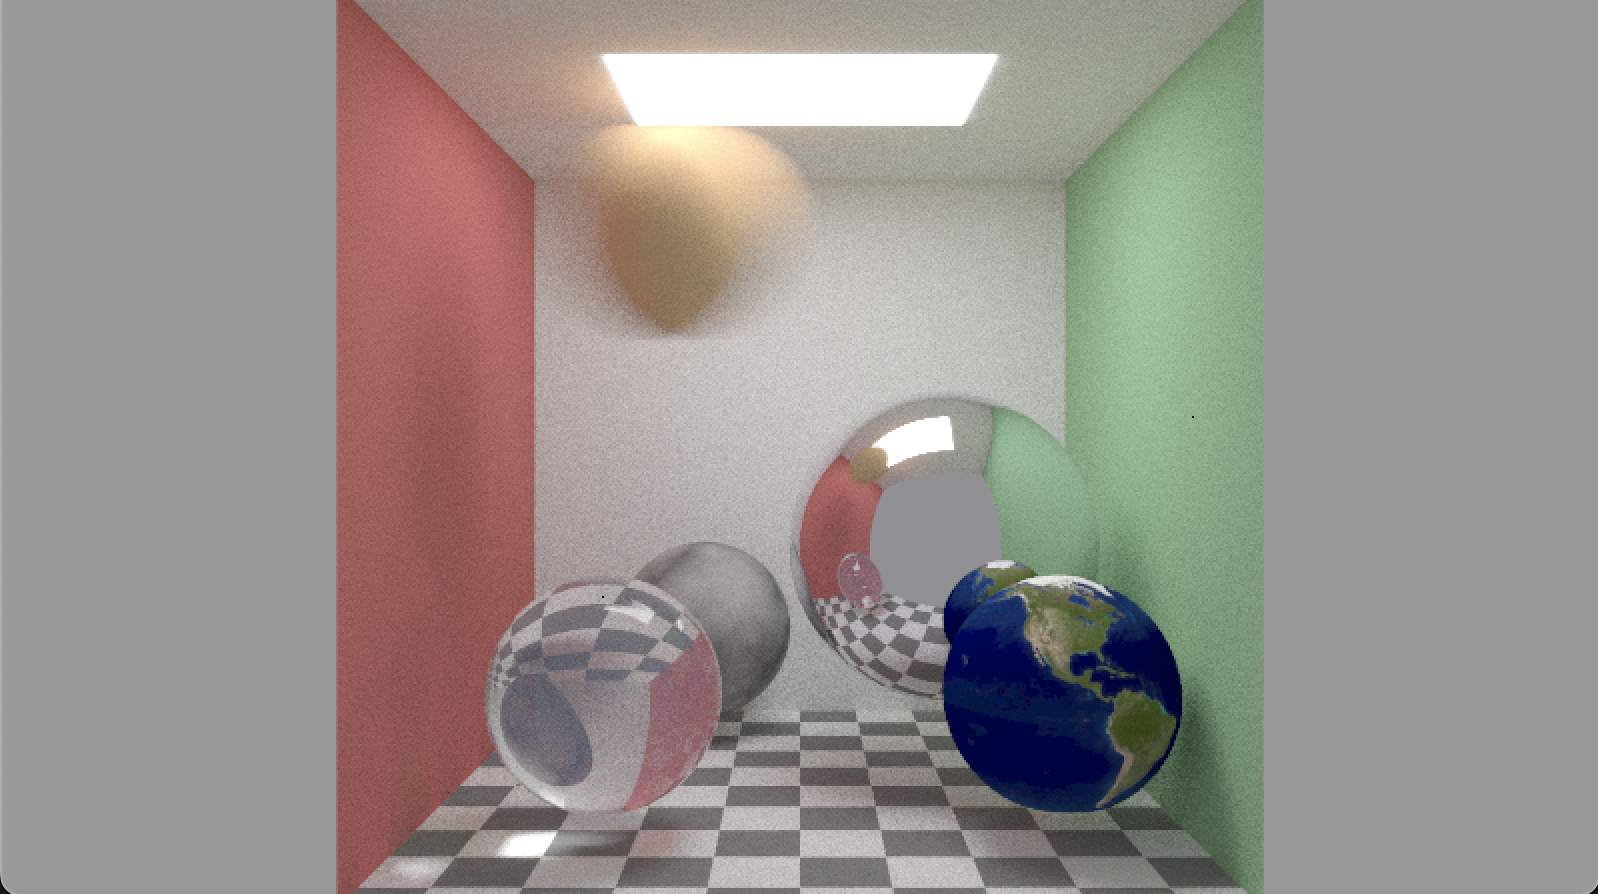
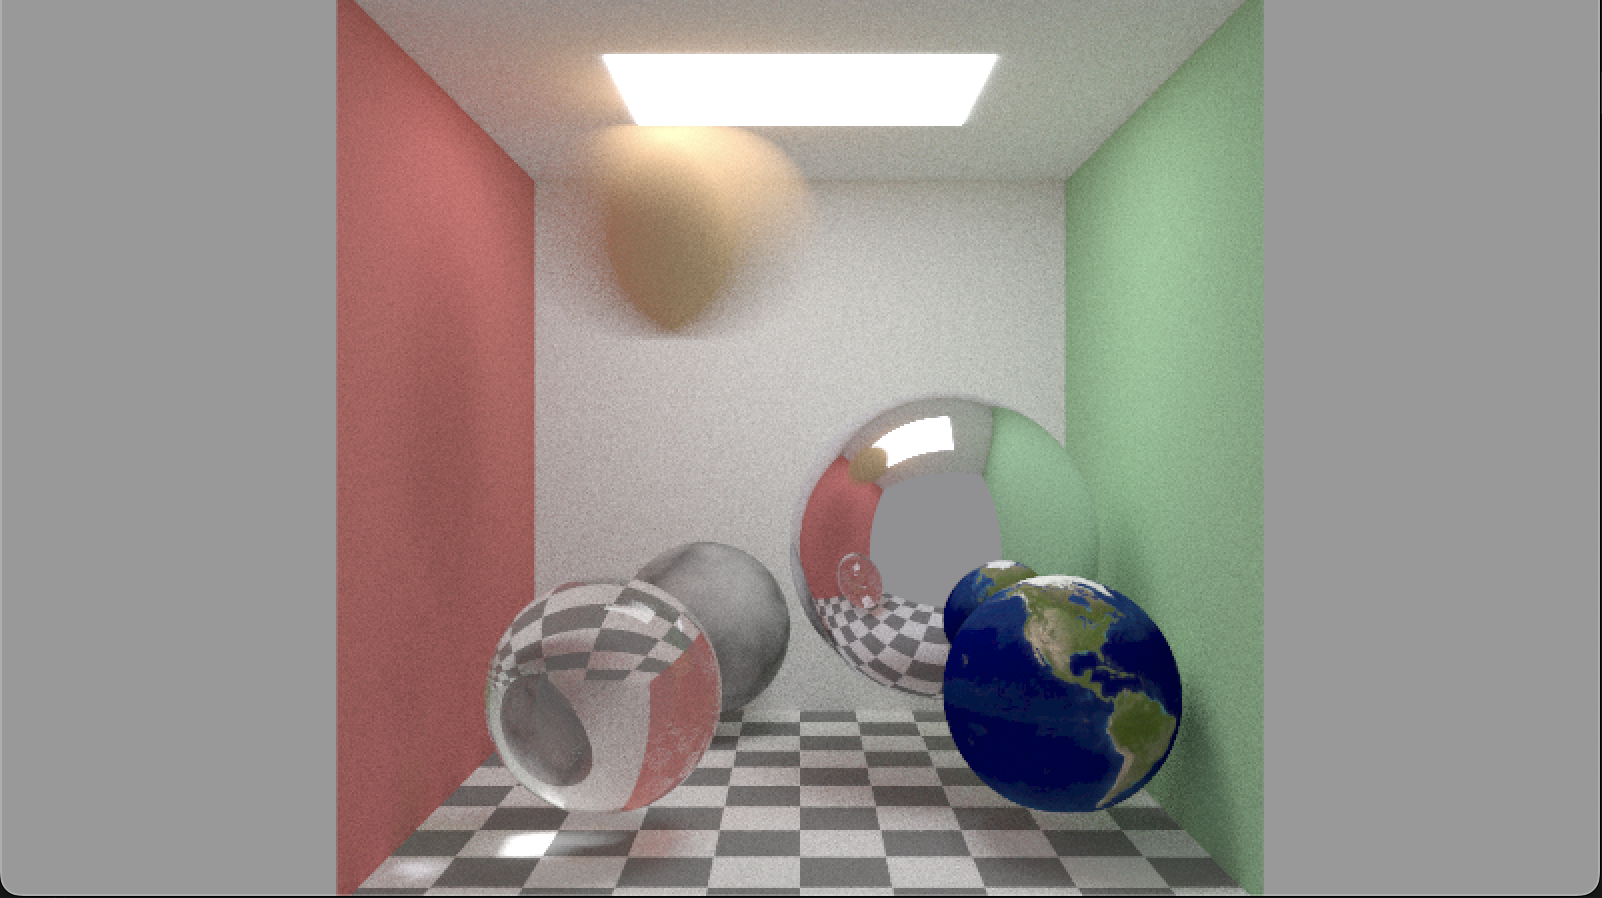
refactor(scene): update sphere types, materials, and positions for consistency and clarity

diff --git a/src/rendering/scene.cpp b/src/rendering/scene.cpp
@@ -86,23 +86,8 @@ SceneData Scene::buildScene() {
 		glm::vec3(0.0f),
 		0.7f,
 		Material{
-			.texture = {
-				.color = glm::vec3(0.8f, 0.8f, 0.9f),
-				.type = TextureType::SolidColor
-			},
+			.texture = {.color = glm::vec3(0.8f, 0.8f, 0.9f), .type = TextureType::SolidColor},
 			.type = MaterialType::Metal,
-		}));
-
-	// Image-textured sphere
-	spheres.emplace_back(std::make_shared<Sphere>(
-		glm::vec3(1.0f, -0.95f, -2.75f),
-		glm::vec3(0.0f),
-		0.45f,
-		Material{
-			.texture = {
-				.type = TextureType::Image
-			},
-			.type = MaterialType::Lambertian,
 		}));
 
 	// Noise sphere
@@ -111,36 +96,41 @@ SceneData Scene::buildScene() {
 		glm::vec3(0.0f),
 		0.45f,
 		Material{
-			.texture = {
-				.noise = glm::vec4(7.0f, 0.5f, 2.0f, 0.0f),
-				.type = TextureType::Noise
-			},
+			.texture = {.noise = glm::vec4(7.0f, 0.5f, 2.0f, 0.0f), .type = TextureType::Noise},
 			.type = MaterialType::Lambertian,
 		}));
 
-	std::vector<std::shared_ptr<Hittable> > volumes;
-
-	auto sphere = std::make_shared<Sphere>(
+	// Dielectric sphere
+	spheres.emplace_back(std::make_shared<Sphere>(
 		glm::vec3(-0.75f, -0.95f, -2.75f),
 		glm::vec3(0.0f),
 		0.45f,
 		Material{
 			.type = MaterialType::Dielectric,
 			.refractionIndex = 1.5f
+		}));
+
+	// Image-textured sphere
+	auto sphere = std::make_shared<Sphere>(
+		glm::vec3(1.0f, -0.95f, -2.75f),
+		glm::vec3(0.0f),
+		0.45f,
+		Material{
+			.texture = {.type = TextureType::Image},
+			.type = MaterialType::Lambertian,
 		});
+
+	spheres.push_back(sphere);
+
+	std::vector<std::shared_ptr<Hittable> > volumes;
 
 	volumes.emplace_back(std::make_shared<Volume>(
 		sphere,
-		2.2f,
+		0.2f,
 		Material{
-			.texture = {
-				.color = glm::vec3(0.2f, 0.4f, 0.9f),
-				.type = TextureType::SolidColor
-			},
+			.texture = {.color = glm::vec3(1.0f, 1.0f, 1.0f), .type = TextureType::SolidColor},
 			.type = MaterialType::Isotropic
 		}));
-
-	spheres.push_back(sphere);
 
 	std::vector<std::shared_ptr<Hittable> > hittables = spheres;
 	hittables.insert(hittables.end(), cornellBox.begin(), cornellBox.end());
